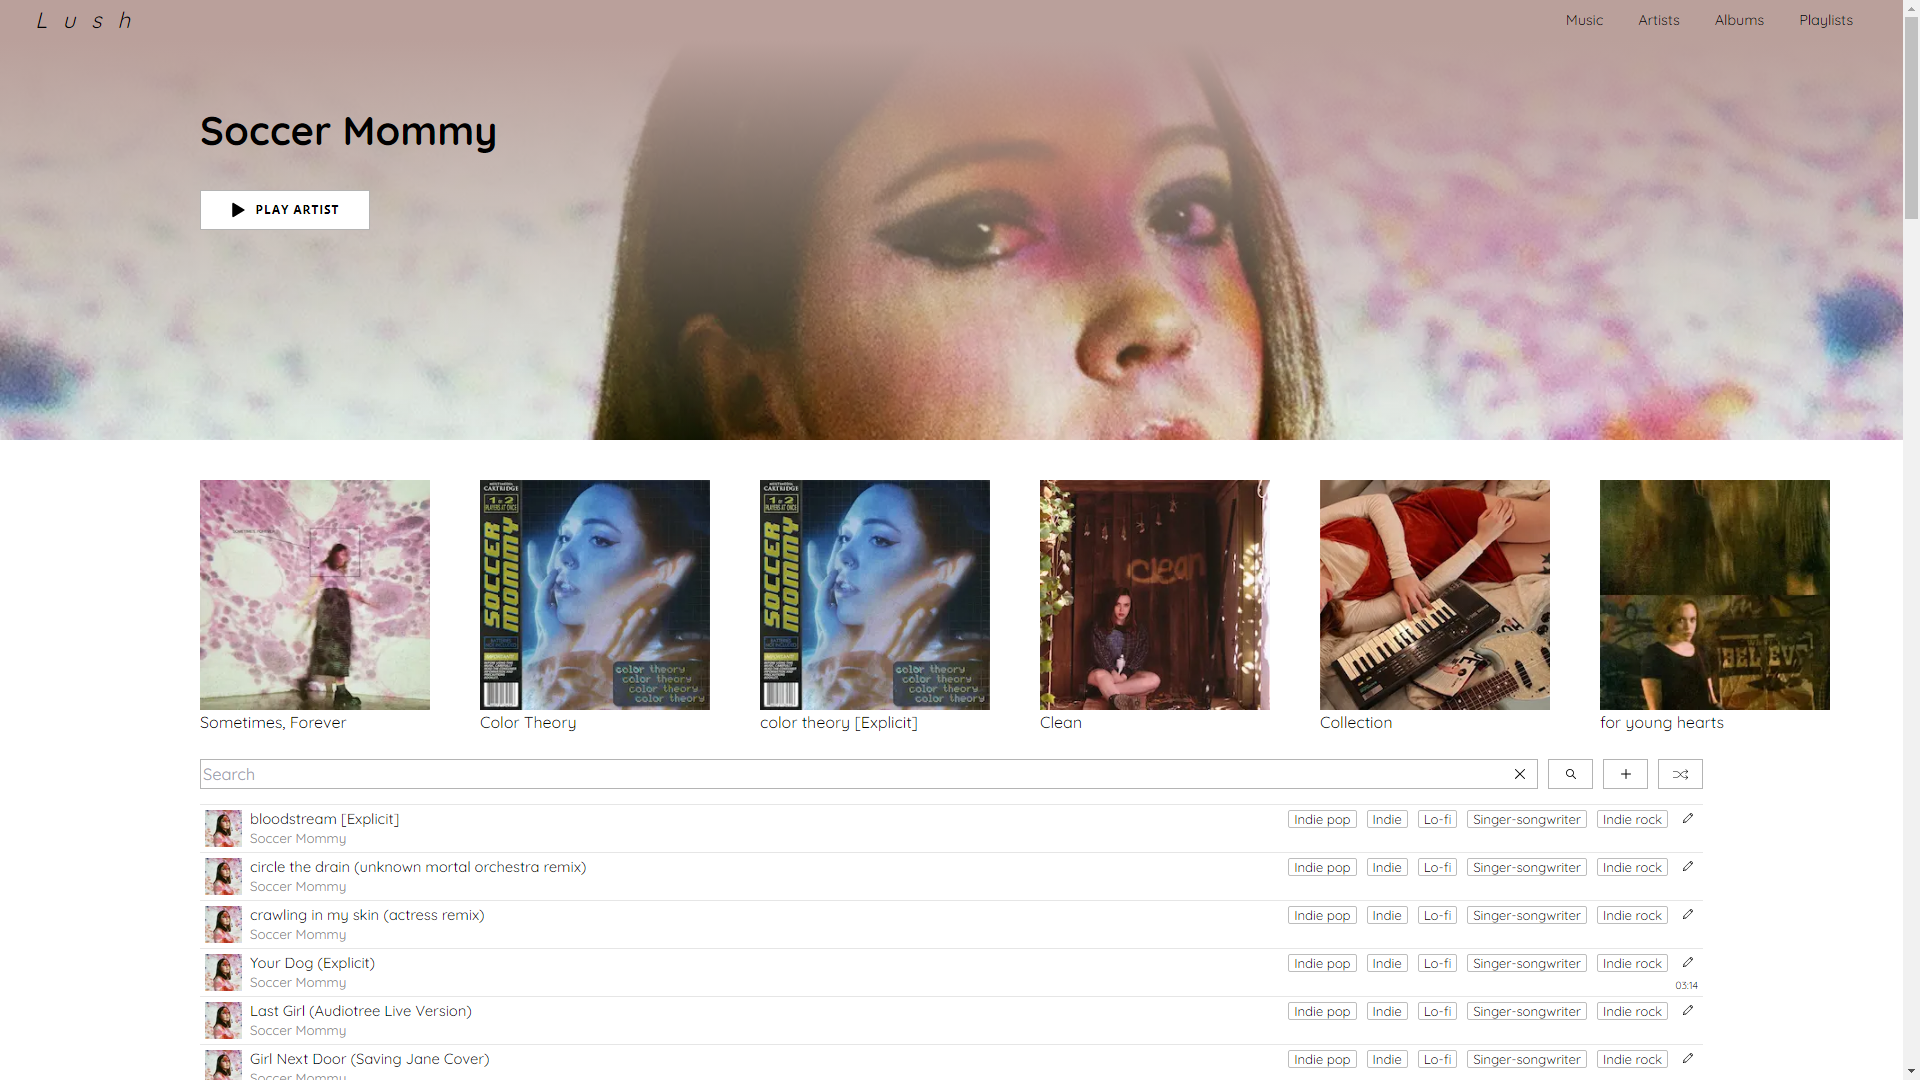
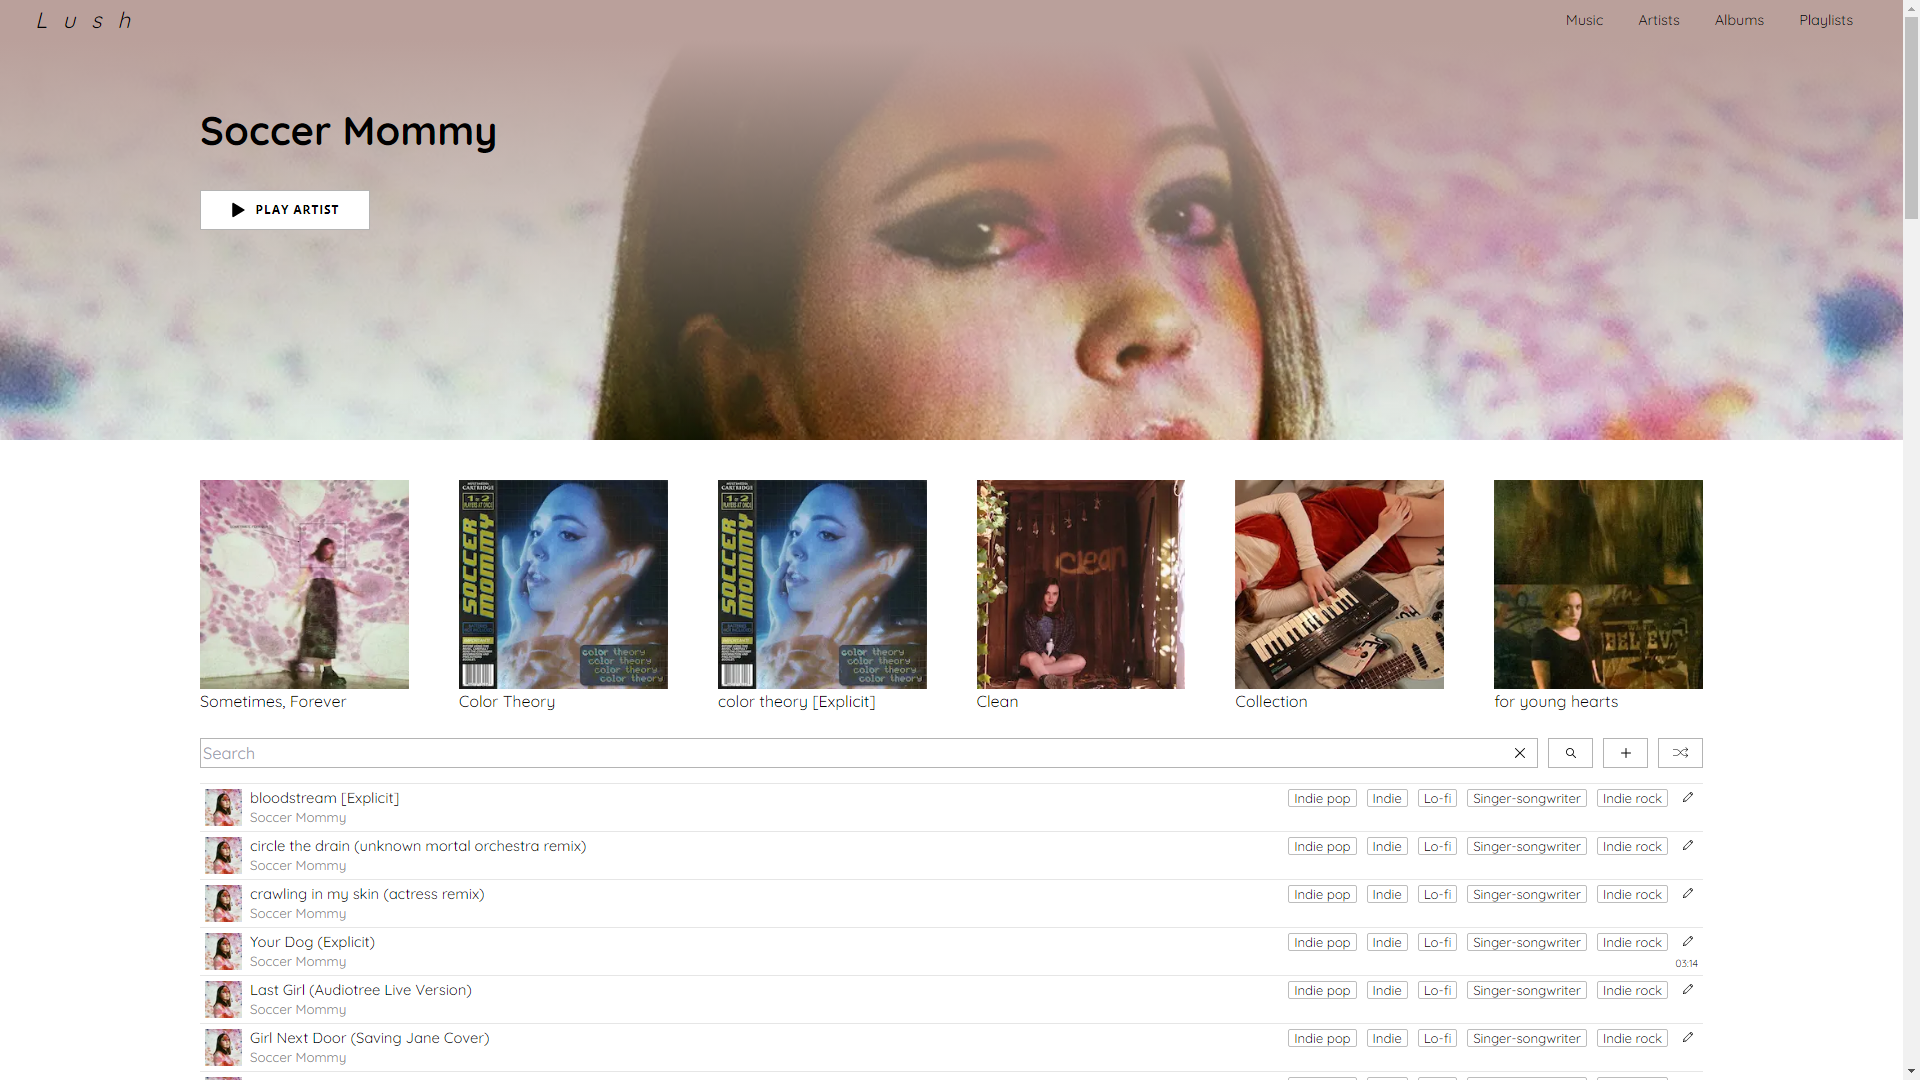
Fix artist's albums' container's width

Changed region(s): [[0.0938, 0.4278, 0.9688, 1.0]]

diff --git a/src/pages/artists/[id].tsx b/src/pages/artists/[id].tsx
@@ -109,7 +109,7 @@ const Artist: NextPage = () => {
             </div>
           </div>
           <div className="mx-[12.5rem] mb-[1.563rem]">
-            <ul className="flex gap-[3.125rem]">
+            <ul className="grid grid-cols-[repeat(6,minmax(200px,_1fr))] gap-[3.125rem] overflow-auto">
               {albums?.map(
                 ({
                   id,
@@ -137,7 +137,7 @@ const Artist: NextPage = () => {
                               alt={"Image of " + title}
                               width={230}
                               height={230}
-                              className="aspect-square min-w-[14.375rem]"
+                              className="aspect-square"
                             />
                           </picture>
                         </a>
